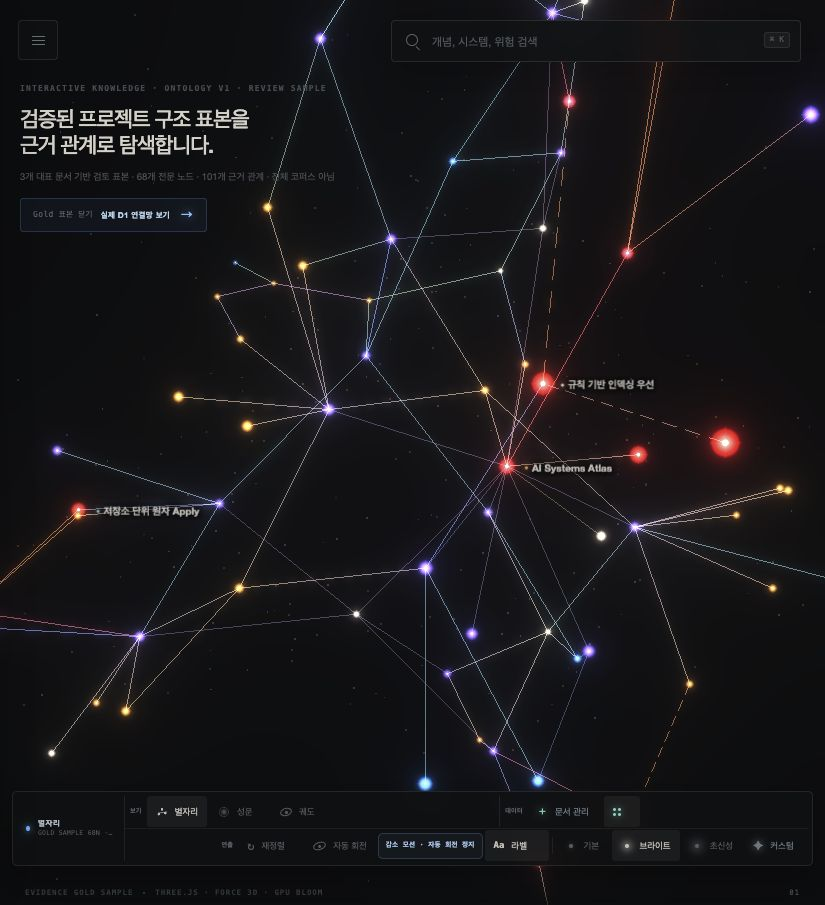
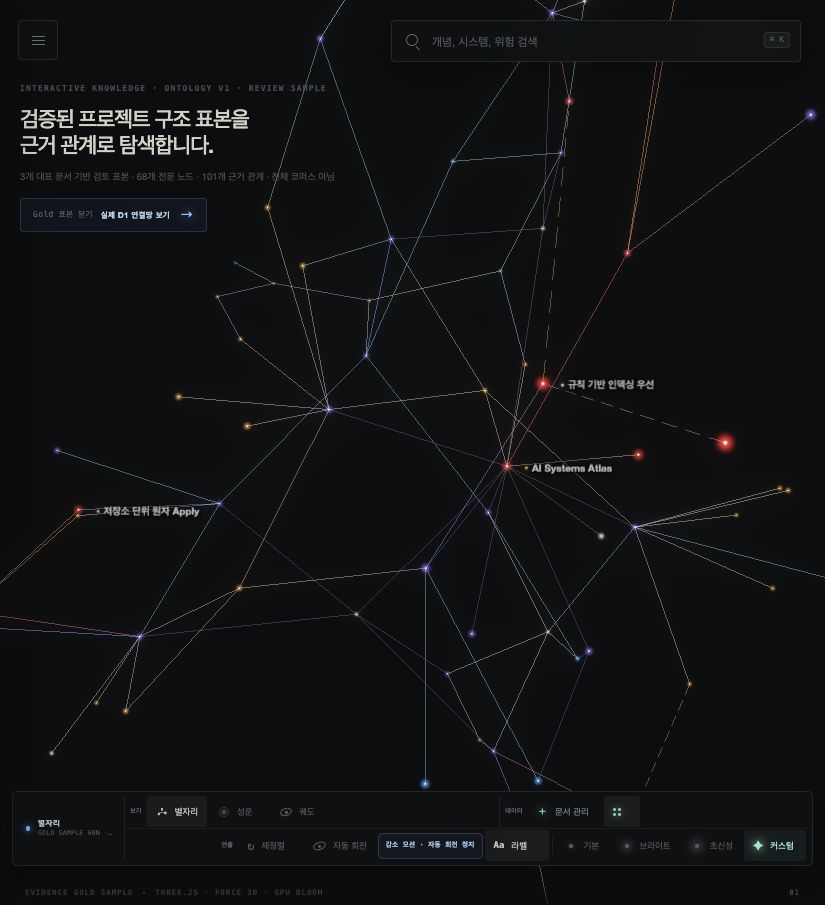
docs: recapture graph screenshots at minimum luminosity

diff --git a/dev-plan/implement_20260807_203534.md b/dev-plan/implement_20260807_203534.md
@@ -2,7 +2,7 @@
 
 작성 일시: `2026-08-07 20:35:34 KST`
 
-최근 업데이트: `2026-08-07 KST` — GitHub 스타일 README, Shields 배지, 현재 앱 그래프 6종·대시보드 5구역 스크린샷과 카탈로그를 추가했다. 이 업데이트는 문서·시각 기준선만 확정했으며 Phase 1 통합 런타임 코드는 아직 시작하지 않았다.
+최근 업데이트: `2026-08-07 KST` — GitHub 스타일 README, Shields 배지, 현재 앱 그래프 6종·대시보드 5구역 스크린샷과 카탈로그를 추가하고 그래프 이미지를 최저 발광값으로 재촬영했다. 이 업데이트는 문서·시각 기준선만 확정했으며 Phase 1 통합 런타임 코드는 아직 시작하지 않았다.
 
 이 문서는 분리형 로컬 Connector를 API Key 없는 통합 Codex OAuth 런타임으로 전환하는 개발 범위를 고정하고, 구현이 목적 밖으로 확장되지 않도록 하기 위한 작업 문서다.
 
@@ -68,6 +68,7 @@
 - [x] 현재 구현과 승인된 OAuth 목표를 README에서 분리한다.
 - [x] OpenAI API·API Key·LightRAG 미사용을 배지와 경고 블록으로 표시한다.
 - [x] 전체 corpus 별자리·성운, overview 궤도, repository, Gold, max 화면을 캡처한다.
+- [x] 그래프 6종을 전체 50·관계선 20·후광 0·배경 입자 0의 최저 발광값으로 재촬영한다.
 - [x] 대시보드 overview·저장소·대상 파일·문서 라이브러리·인덱싱 상태를 캡처한다.
 - [x] 현재 `NO SIGNAL`이 목표가 아닌 전환 전 화면임을 명시한다.
 - [x] [스크린샷 카탈로그](../docs/screenshots/README.md)에 URL·scroll 위치·재촬영 조건을 기록한다.
@@ -75,7 +76,8 @@
 ### 문서 갱신 검증 기록 — 2026-08-07 KST
 
 - 실제 브라우저에서 그래프 6종과 대시보드 5구역, 총 11개 PNG를 캡처했다.
-- PNG 11개의 파일 무결성과 총 1,000,391 bytes를 확인했다.
+- PNG 11개의 파일 무결성과 총 1,048,482 bytes를 확인했다.
+- 재촬영 전후 평균 밝기를 비교해 전체 corpus 별자리 `99.94 → 52.84`, 최대 밀도 화면 `174.67 → 61.46`으로 낮아졌음을 확인했다.
 - README의 로컬 문서·이미지 참조 21개가 모두 존재함을 확인했다.
 - Shields 정적 배지와 GitHub last-commit 배지가 HTTP 200을 반환했다.
 - `git diff --check`와 전체 `npm test` **153/153**을 통과했다.

diff --git a/docs/screenshots/README.md b/docs/screenshots/README.md
@@ -10,6 +10,7 @@
 - 기본 viewport: `825 × 905`
 - 데이터: 853문서 · 89,669 고유 엔티티 · 94,488 저장 관계
 - corpus 화면: 500노드 · 1,539 실제 관계 · 461 비저장 화면 연결
+- 그래프 6종 발광값: 전체 50 · 관계선 20 · 후광 0 · 배경 입자 0 · 선택 대비 낮음
 - 캡처는 브라우저 viewport 기준이며 이미지 보정이나 합성은 하지 않았다.
 - 대시보드는 내부 scroll container의 주요 구역을 나누어 캡처했다.
 
@@ -40,7 +41,7 @@
 - 갤러리는 그래프 보기, 검토 fixture, 대시보드 운영 흐름 순서로 배치한다.
 - 현재 대시보드의 `NO SIGNAL`은 분리형 Connector 구현 이력임을 명시한다.
 - 통합 OAuth 런타임 구현 후 Connector UI가 사라지면 대시보드 캡처 5장을 다시 촬영한다.
-- 데이터 수량, 발광 프리셋, 하단 제어판, dashboard section 구조가 바뀌면 해당 화면만 재촬영한다.
+- 데이터 수량, 최저 발광 범위, 하단 제어판, dashboard section 구조가 바뀌면 해당 화면만 재촬영한다.
 
 ## 관련 문서
 

diff --git a/README.md b/README.md
@@ -58,7 +58,7 @@ AI Systems Atlas는 `README.md`, `dev-plan/**/*.md`, 수동 업로드 `.md/.mdx`
 
 ## 🖼 화면 갤러리
 
-모든 이미지는 현재 로컬 D1과 실제 UI를 직접 캡처한 화면입니다. 전체 캡처 목록과 재촬영 기준은 [스크린샷 카탈로그](./docs/screenshots/README.md)에 있습니다.
+모든 이미지는 현재 로컬 D1과 실제 UI를 직접 캡처한 화면입니다. 그래프 6종은 과노출을 줄이기 위해 캡처 가능한 최저 발광값(`전체 50 · 관계선 20 · 후광 0 · 배경 입자 0`)으로 다시 촬영했습니다. 전체 캡처 목록과 재촬영 기준은 [스크린샷 카탈로그](./docs/screenshots/README.md)에 있습니다.
 
 ### 전체 지식 우주
 
